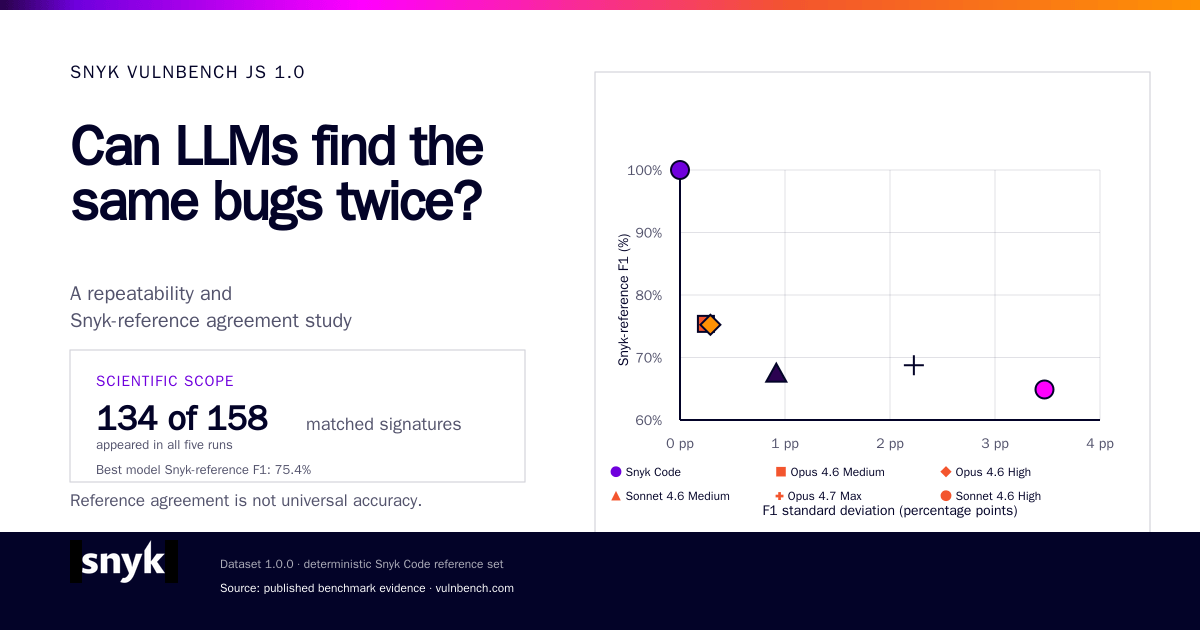
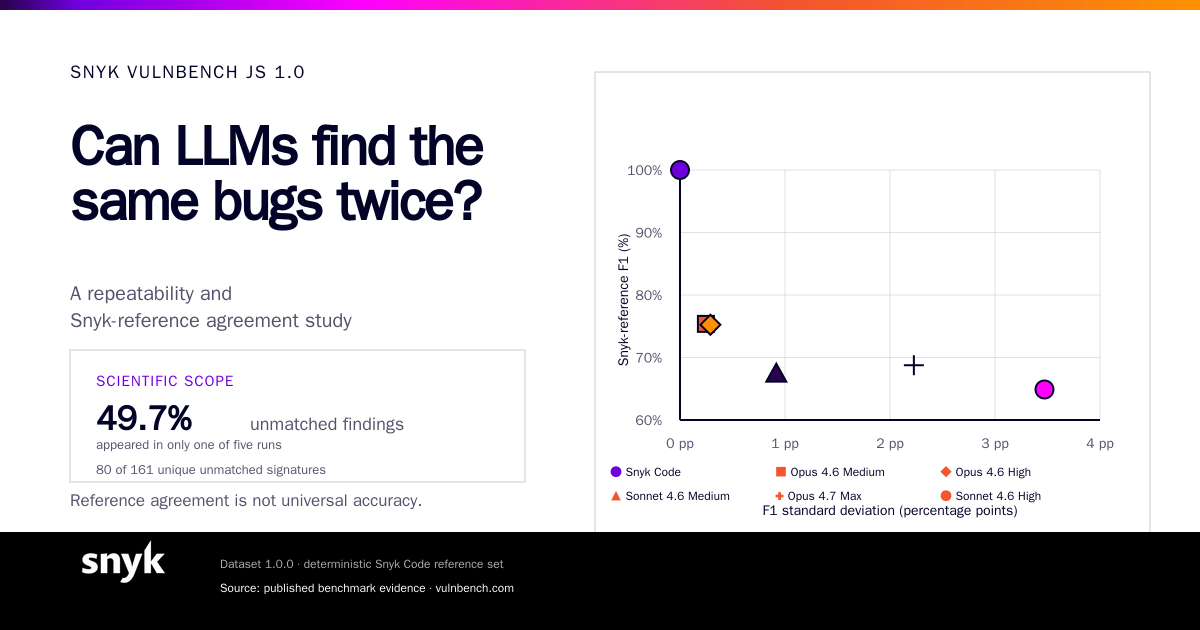
feat: emphasize unmatched finding variance
Update the social preview with the more engaging 49.7% unmatched-finding callout, preserve its denominator, and blend the footer into the logo background.

Changed region(s): [[0.0, 0.8444, 1.0, 1.0], [0.0617, 0.6333, 0.4008, 0.754]]

diff --git a/src/components/social/share-card.ts b/src/components/social/share-card.ts
@@ -337,17 +337,17 @@ export function renderDefaultSocialCard(
   <text fill="#030328" fill-opacity="0.68" font-family="Geist" font-size="20">${textLines("A repeatability and Snyk-reference agreement study", 70, 300, 27, 32)}</text>
   <rect x="70" y="350" width="455" height="132" fill="#FFFFFF" stroke="#030328" stroke-opacity="0.2"/>
   <text x="96" y="386" fill="#6F00DD" font-family="Geist Mono" font-size="15" font-weight="500" letter-spacing="1">SCIENTIFIC SCOPE</text>
-  <text x="96" y="430" fill="#030328" font-family="Geist" font-size="34" font-weight="700">134 of 158</text>
-  <text x="306" y="430" fill="#030328" fill-opacity="0.68" font-family="Geist" font-size="18">matched signatures</text>
-  <text x="96" y="449" fill="#030328" fill-opacity="0.68" font-family="Geist Mono" font-size="13">appeared in all five runs</text>
-  <text x="96" y="474" fill="#030328" fill-opacity="0.68" font-family="Geist Mono" font-size="13">Best model Snyk-reference F1: 75.4%</text>
+  <text x="96" y="430" fill="#030328" font-family="Geist" font-size="34" font-weight="700">49.7%</text>
+  <text x="250" y="430" fill="#030328" fill-opacity="0.68" font-family="Geist" font-size="18">unmatched findings</text>
+  <text x="96" y="449" fill="#030328" fill-opacity="0.68" font-family="Geist Mono" font-size="13">appeared in only one of five runs</text>
+  <text x="96" y="474" fill="#030328" fill-opacity="0.68" font-family="Geist Mono" font-size="13">80 of 161 unique unmatched signatures</text>
   <text x="70" y="506" fill="#030328" fill-opacity="0.68" font-family="Geist" font-size="17">Reference agreement is not universal accuracy.</text>
   <text x="70" y="548" fill="#030328" font-family="Geist Mono" font-size="15" font-weight="500">300 scans</text>
   <text x="190" y="548" fill="#030328" font-family="Geist Mono" font-size="15" font-weight="500">10 projects</text>
   <text x="325" y="548" fill="#030328" font-family="Geist Mono" font-size="15" font-weight="500">6 configurations</text>
   <text x="488" y="548" fill="#030328" font-family="Geist Mono" font-size="15" font-weight="500">5 repetitions</text>
   ${renderLightAgreementChart(data?.agreementVariance ?? defaultAgreementVariance)}
-  <rect x="0" y="532" width="1200" height="98" fill="#030328"/>
+  <rect data-footer-background="" x="0" y="532" width="1200" height="98" fill="#000000"/>
   <image href="${escapeXml(assets.wordmarkUrl)}" x="70" y="540" width="108" height="43" preserveAspectRatio="xMidYMid meet"/>
   <text x="220" y="568" fill="#FFFFFF" fill-opacity="0.68" font-family="Geist Mono" font-size="12">Dataset 1.0.0 · deterministic Snyk Code reference set</text>
   <text x="220" y="592" fill="#FFFFFF" font-family="Geist Mono" font-size="12">Source: published benchmark evidence · vulnbench.com</text>

diff --git a/src/components/social/light-default-social-card.test.ts b/src/components/social/light-default-social-card.test.ts
@@ -16,13 +16,19 @@ describe("light Snyk 2026 default social card", () => {
     );
     expect(svg).toContain('data-light-social-card=""');
     expect(svg).toContain('data-social-background=""');
+    expect(svg).toContain('data-footer-background=""');
+    expect(svg).toContain('width="1200" height="98" fill="#000000"');
     expect(svg).toContain('fill="#FFFFFF"');
     expect(svg).toContain("AGREEMENT VS REPEATED-RUN VARIANCE");
     expect(svg).toContain("F1 standard deviation (percentage points)");
     expect(svg).toContain("Snyk-reference F1 (%)");
     expect(svg).toContain('data-point-name="Claude Opus 4.6 Medium"');
     expect(svg).toContain('data-point-name="Claude Sonnet 4.6 High"');
-    expect(svg).toContain("Best model Snyk-reference F1: 75.4%");
+    expect(svg).toContain("49.7%");
+    expect(svg).toContain("unmatched findings");
+    expect(svg).toContain("only one of five runs");
+    expect(svg).toContain("80 of 161");
+    expect(svg).not.toContain("134 of 158");
     expect(svg).toContain("Reference agreement is not universal accuracy.");
   });
 });

diff --git a/docs/superpowers/specs/2026-08-05-snyk-2026-brand-theme-design.md b/docs/superpowers/specs/2026-08-05-snyk-2026-brand-theme-design.md
@@ -198,8 +198,11 @@ visitor's color mode:
 - The Snyk 2026 default Open Graph asset is an explicit website-specific Light
   analytical composition: a 1200 × 630 PNG with a white canvas, Midnight copy,
   one thin Brand Gradient accent, a chart-led Agreement versus repeated-run
-  variance visual, dataset context, and the scientific caveat. It is
-  build-selected and does not infer the recipient's Light or Dark preference.
+  variance visual, an interest-led 49.7% unmatched-finding callout with its
+  80-of-161 denominator, and the scientific caveat. Its bottom metadata bar
+  uses black to blend with the official white-wordmark asset's source
+  background. It is build-selected and does not infer the recipient's Light or
+  Dark preference.
 - The branded SVG source remains available for inspection and generated
   release-card routes, while the PNG is the canonical external-preview format
   for X, LinkedIn, WhatsApp, Slack, and other unfurlers.
